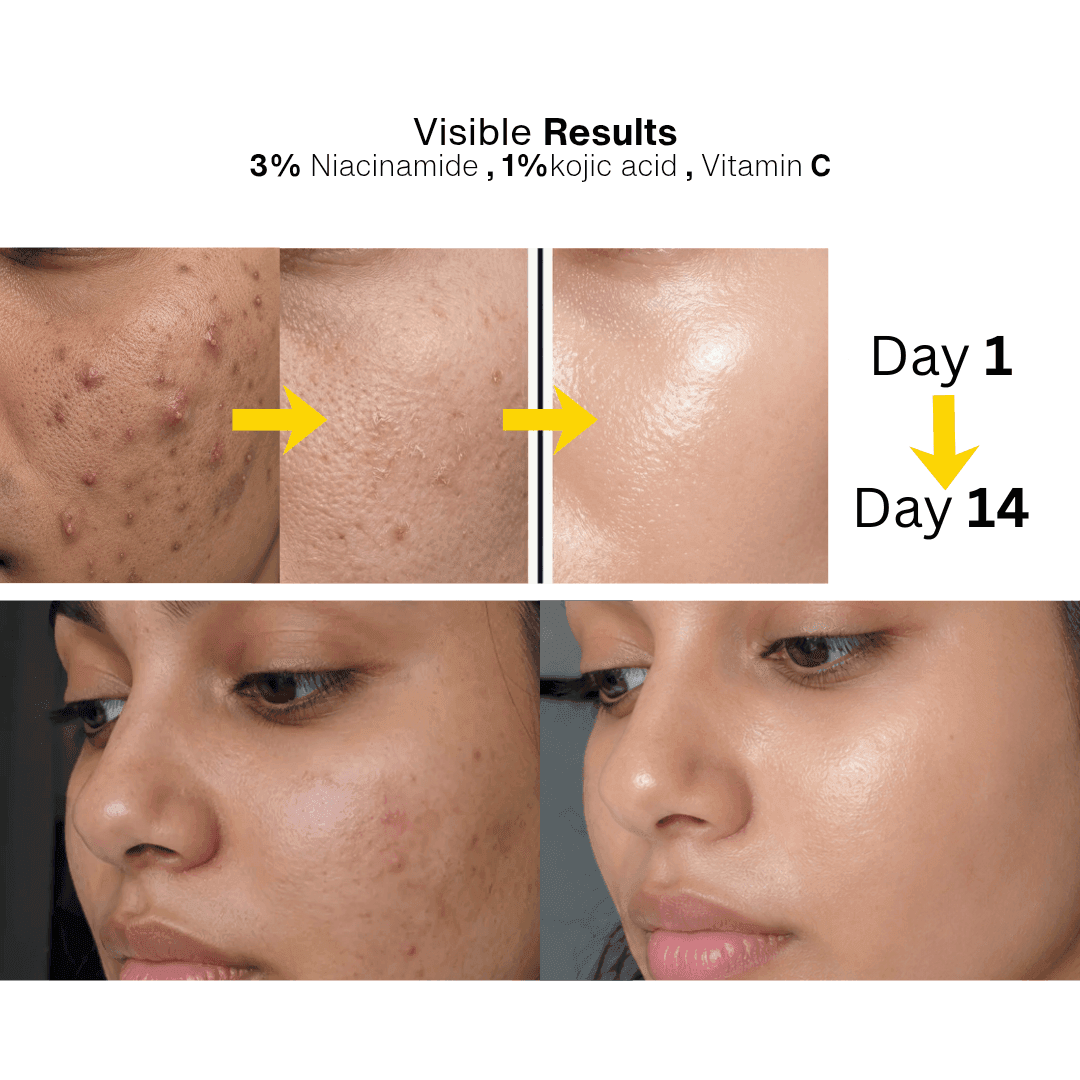
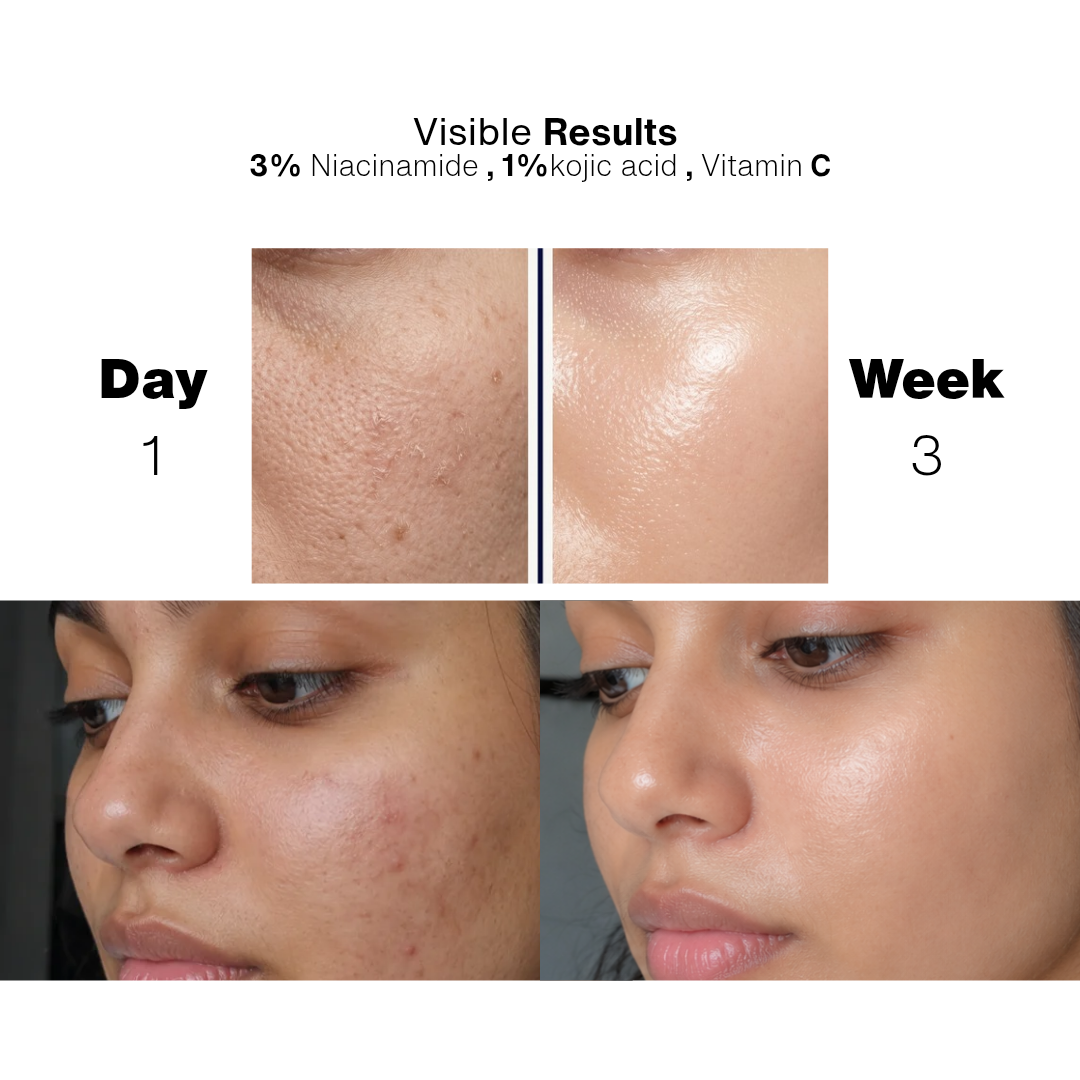
Add ingredient images
modify review section to show three pinned comments

Changed region(s): [[0.0, 0.2139, 0.3056, 0.55], [0.7639, 0.3056, 0.9472, 0.4889], [0.4583, 0.3361, 0.55, 0.4278]]

diff --git a/src/components/product/ReviewList.tsx b/src/components/product/ReviewList.tsx
@@ -7,6 +7,7 @@ import { supabase } from "@/lib/supabase-client";
 import type { Review } from "@/components/product/ProductInfo";
 
 const PAGE_SIZE = 5;
+const PINNED_REVIEWERS = ["Ananya Menon", "Diya Thomas", "Mihika Balan"];
 
 interface ReviewListProps {
   productId: string;
@@ -41,10 +42,12 @@ export default function ReviewList({
 }: ReviewListProps) {
   const [page, setPage] = useState(1);
   const [reviews, setReviews] = useState<Review[]>([]);
+  const [pinnedReviews, setPinnedReviews] = useState<Review[]>([]);
   const [pageTotal, setPageTotal] = useState(totalCount);
   const [loading, setLoading] = useState(true);
   const [lightbox, setLightbox] = useState<LightboxState | null>(null);
   const [galleryItems, setGalleryItems] = useState<ReviewWithImage[]>([]);
+  const pinnedFetchedRef = useRef(false);
   const sectionRef = useRef<HTMLDivElement>(null);
   const carouselRef = useRef<HTMLDivElement>(null);
   const prevLightboxOpenRef = useRef(false);
@@ -61,24 +64,54 @@ export default function ReviewList({
   const displayedTotal = pageTotal;
   const totalPages = Math.ceil(displayedTotal / PAGE_SIZE);
 
+  // ── Fetch pinned reviews once ───────────────────────────────
+  useEffect(() => {
+    async function fetchPinned() {
+      if (pinnedFetchedRef.current) return;
+      const formattedNames = `(${PINNED_REVIEWERS.map(n => `"${n}"`).join(",")})`;
+      const { data } = await supabase
+        .from("reviews")
+        .select("*")
+        .eq("product_id", productId)
+        .in("reviewer_name", PINNED_REVIEWERS);
+      if (data) {
+        const sorted = [...data].sort(
+          (a, b) => PINNED_REVIEWERS.indexOf(a.reviewer_name) - PINNED_REVIEWERS.indexOf(b.reviewer_name)
+        );
+        setPinnedReviews(sorted as Review[]);
+      }
+      pinnedFetchedRef.current = true;
+    }
+    fetchPinned();
+  }, [productId]);
+
   // ── Fetch a single page ─────────────────────────────────────
   const fetchPage = useCallback(
     async (pageNum: number) => {
       setLoading(true);
-      const from = (pageNum - 1) * PAGE_SIZE;
-      const to = from + PAGE_SIZE - 1;
+      const pinnedCount = PINNED_REVIEWERS.length;
+      let from, to;
+      if (pageNum === 1) {
+        from = 0;
+        to = PAGE_SIZE - pinnedCount - 1;
+      } else {
+        from = (PAGE_SIZE - pinnedCount) + (pageNum - 2) * PAGE_SIZE;
+        to = from + PAGE_SIZE - 1;
+      }
 
+      const formattedNames = `(${PINNED_REVIEWERS.map(n => `"${n}"`).join(",")})`;
       const { data, count, error } = await supabase
         .from("reviews")
         .select("*", { count: "exact" })
         .eq("product_id", productId)
+        .not("reviewer_name", "in", formattedNames)
         .order("sort_weight", { ascending: true })
         .order("created_at", { ascending: false })
         .range(from, to);
 
       if (!error) {
         setReviews((data as Review[]) || []);
-        if (count !== null) setPageTotal(count);
+        if (count !== null) setPageTotal(count + pinnedCount);
       }
       setLoading(false);
     },
@@ -151,6 +184,7 @@ export default function ReviewList({
     </div>
   );
 
+  const displayReviews = page === 1 ? [...pinnedReviews, ...reviews] : reviews;
   const rangeStart = (page - 1) * PAGE_SIZE + 1;
   const rangeEnd = Math.min(page * PAGE_SIZE, displayedTotal);
 
@@ -231,19 +265,24 @@ export default function ReviewList({
       <div className="flex flex-col">
         {loading
           ? Array.from({ length: PAGE_SIZE }).map((_, i) => <SkeletonCard key={i} />)
-          : reviews.map((review) => {
+          : displayReviews.map((review) => {
               const hasImages = review.image_urls && review.image_urls.length > 0;
               return (
                 <div
                   key={review.id}
                   className="py-5 border-b border-gray-100 last:border-b-0"
                 >
-                  <div className="flex items-center justify-between mb-3">
+                  <div className="flex flex-col mb-3">
                     <div className="flex items-center gap-3">
                       <div>
-                        <p className="text-sm font-semibold text-brand-text">
-                          {review.reviewer_name}
-                        </p>
+                        <div className="flex items-center gap-2 mb-0.5">
+                          <p className="text-sm font-semibold text-brand-text">
+                            {review.reviewer_name}
+                          </p>
+                          <span className="text-[10px] font-semibold text-green-700 bg-green-100 px-2 py-0.5 rounded-full">
+                            VERIFIED
+                          </span>
+                        </div>
                         <div className="flex items-center gap-1">
                           {[1, 2, 3, 4, 5].map((star) => (
                             <Star
@@ -258,9 +297,6 @@ export default function ReviewList({
                         </div>
                       </div>
                     </div>
-                    <span className="text-[10px] font-semibold text-green-700 bg-green-100 px-2 py-0.5 rounded-full">
-                      VERIFIED
-                    </span>
                   </div>
 
                   {review.review_text?.trim() && (
@@ -397,16 +433,45 @@ export default function ReviewList({
                 ))}
               </div>
               
-              {/* Counter removed per user request */}
+              {/* Navigation Arrows for Large Screens */}
+              <button
+                type="button"
+                className="hidden md:flex absolute top-1/2 left-4 -translate-y-1/2 w-10 h-10 items-center justify-center bg-black/50 text-white rounded-full opacity-50 hover:opacity-100 transition-opacity disabled:hidden"
+                onClick={(e) => {
+                  e.stopPropagation();
+                  if (carouselRef.current) {
+                    carouselRef.current.scrollBy({ left: -carouselRef.current.clientWidth, behavior: "smooth" });
+                  }
+                }}
+                disabled={lightbox.index === 0}
+                aria-label="Previous image"
+              >
+                <ChevronLeft className="w-6 h-6" />
+              </button>
+              
+              <button
+                type="button"
+                className="hidden md:flex absolute top-1/2 right-4 -translate-y-1/2 w-10 h-10 items-center justify-center bg-black/50 text-white rounded-full opacity-50 hover:opacity-100 transition-opacity disabled:hidden"
+                onClick={(e) => {
+                  e.stopPropagation();
+                  if (carouselRef.current) {
+                    carouselRef.current.scrollBy({ left: carouselRef.current.clientWidth, behavior: "smooth" });
+                  }
+                }}
+                disabled={lightbox.index === lightbox.items.length - 1}
+                aria-label="Next image"
+              >
+                <ChevronRight className="w-6 h-6" />
+              </button>
             </div>
 
             {/* Right/Bottom: Review Info */}
             <div className="w-full md:w-2/5 p-5 md:p-8 flex flex-col overflow-y-auto max-h-[45vh] md:max-h-[80vh]">
-              <div className="flex items-center justify-between mb-3">
+              <div className="flex items-center gap-3 mb-3">
                 <p className="font-bold text-brand-text text-lg">
                   {lightbox.items[lightbox.index].review.reviewer_name}
                 </p>
-                <span className="text-[10px] font-semibold text-green-700 bg-green-100 px-2 py-0.5 rounded-full shrink-0 ml-2">
+                <span className="text-[10px] font-semibold text-green-700 bg-green-100 px-2 py-0.5 rounded-full shrink-0">
                   VERIFIED
                 </span>
               </div>

diff --git a/src/components/product/ProductDescription.tsx b/src/components/product/ProductDescription.tsx
@@ -2,6 +2,7 @@
 
 import { useState } from "react";
 import { ChevronDown } from "lucide-react";
+import Image from "next/image";
 import type { Product } from "@/lib/products";
 
 type Section = "science" | "results" | "benefits" | "safety";
@@ -39,8 +40,26 @@ export default function ProductDescription({ product }: ProductDescriptionProps)
             openSection === "science" ? "max-h-[600px] opacity-100" : "max-h-0 opacity-0"
           }`}
         >
-          <div className="px-4 pb-5 text-xs md:text-sm text-gray-600 leading-relaxed whitespace-pre-line">
-            {product.description}
+          <div className="px-4 pb-2 pt-2">
+            <div className="flex overflow-x-auto snap-x snap-mandatory gap-4 pb-2 hide-scrollbar">
+              {[
+                { src: "/images/niacinamide.png", name: "Niacinamide" },
+                { src: "/images/shea_butter.png", name: "Shea Butter" },
+                { src: "/images/alpha_arbutin.png", name: "Alpha Arbutin" },
+                { src: "/images/licorie_extract.png", name: "Licorice Extract" },
+                { src: "/images/kojic_acid.png", name: "Kojic Acid" },
+                { src: "/images/glutathione.png", name: "Glutathione" }
+              ].map((ingredient, idx) => (
+                <div key={idx} className="flex flex-col items-center flex-shrink-0 snap-center w-[22%]">
+                  <div className="relative w-full aspect-square rounded-full overflow-hidden border border-gray-100 mb-2 shadow-sm">
+                    <Image src={ingredient.src} alt={ingredient.name} fill className="object-cover" sizes="(max-width: 768px) 25vw, 15vw" />
+                  </div>
+                  <span className="text-[9px] sm:text-[11px] text-center font-semibold text-gray-700 leading-tight">
+                    {ingredient.name}
+                  </span>
+                </div>
+              ))}
+            </div>
           </div>
         </div>
       </div>

diff --git a/src/app/auth/callback/route.ts b/src/app/auth/callback/route.ts
@@ -4,18 +4,31 @@ import { createSupabaseServerClient } from "@/lib/supabase-server-ssr";
 export async function GET(request: Request) {
   const { searchParams, origin } = new URL(request.url);
   const code = searchParams.get("code");
+  const token_hash = searchParams.get("token_hash");
+  const type = searchParams.get("type");
   const next = searchParams.get("next") ?? "/";
 
+  const supabase = await createSupabaseServerClient();
+
+  // OAuth PKCE flow (Google sign-in) — exchange auth code for session
   if (code) {
-    const supabase = await createSupabaseServerClient();
     const { error } = await supabase.auth.exchangeCodeForSession(code);
-   
     if (!error) {
-      // Successful auth — redirect to the intended page
       return NextResponse.redirect(`${origin}${next}`);
     }
   }
 
-  // If no code or exchange failed, redirect to home with an error indicator
+  // Magic link flow — verify the token hash directly
+  if (token_hash && type) {
+    const { error } = await supabase.auth.verifyOtp({
+      type: type as "magiclink" | "email",
+      token_hash,
+    });
+    if (!error) {
+      return NextResponse.redirect(`${origin}${next}`);
+    }
+  }
+
+  // If no valid params or verification failed, redirect with error
   return NextResponse.redirect(`${origin}/?auth_error=true`);
 }

diff --git a/src/app/api/auth/send-magic-link/route.ts b/src/app/api/auth/send-magic-link/route.ts
@@ -52,12 +52,16 @@ export async function POST(request: NextRequest) {
       },
     });
 
-    if (error || !data?.properties?.action_link) {
+    if (error || !data?.properties?.hashed_token) {
       console.error("Magic link generation error:", error);
       return NextResponse.json({ error: "Failed to generate magic link" }, { status: 500 });
     }
 
-    const magicLink = data.properties.action_link;
+    // Build a direct link to OUR callback with token_hash as a query param.
+    // We do NOT use Supabase's action_link because it redirects through
+    // Supabase's server, which puts tokens in a hash fragment (#access_token=...)
+    // that is invisible to our server-side route handler.
+    const magicLink = `${siteUrl}/auth/callback?token_hash=${encodeURIComponent(data.properties.hashed_token)}&type=magiclink&next=${encodeURIComponent(next)}`;
 
     const { error: emailError } = await resend.emails.send({
       from: "Luwia Skin Science <noreply@luwia.in>",
